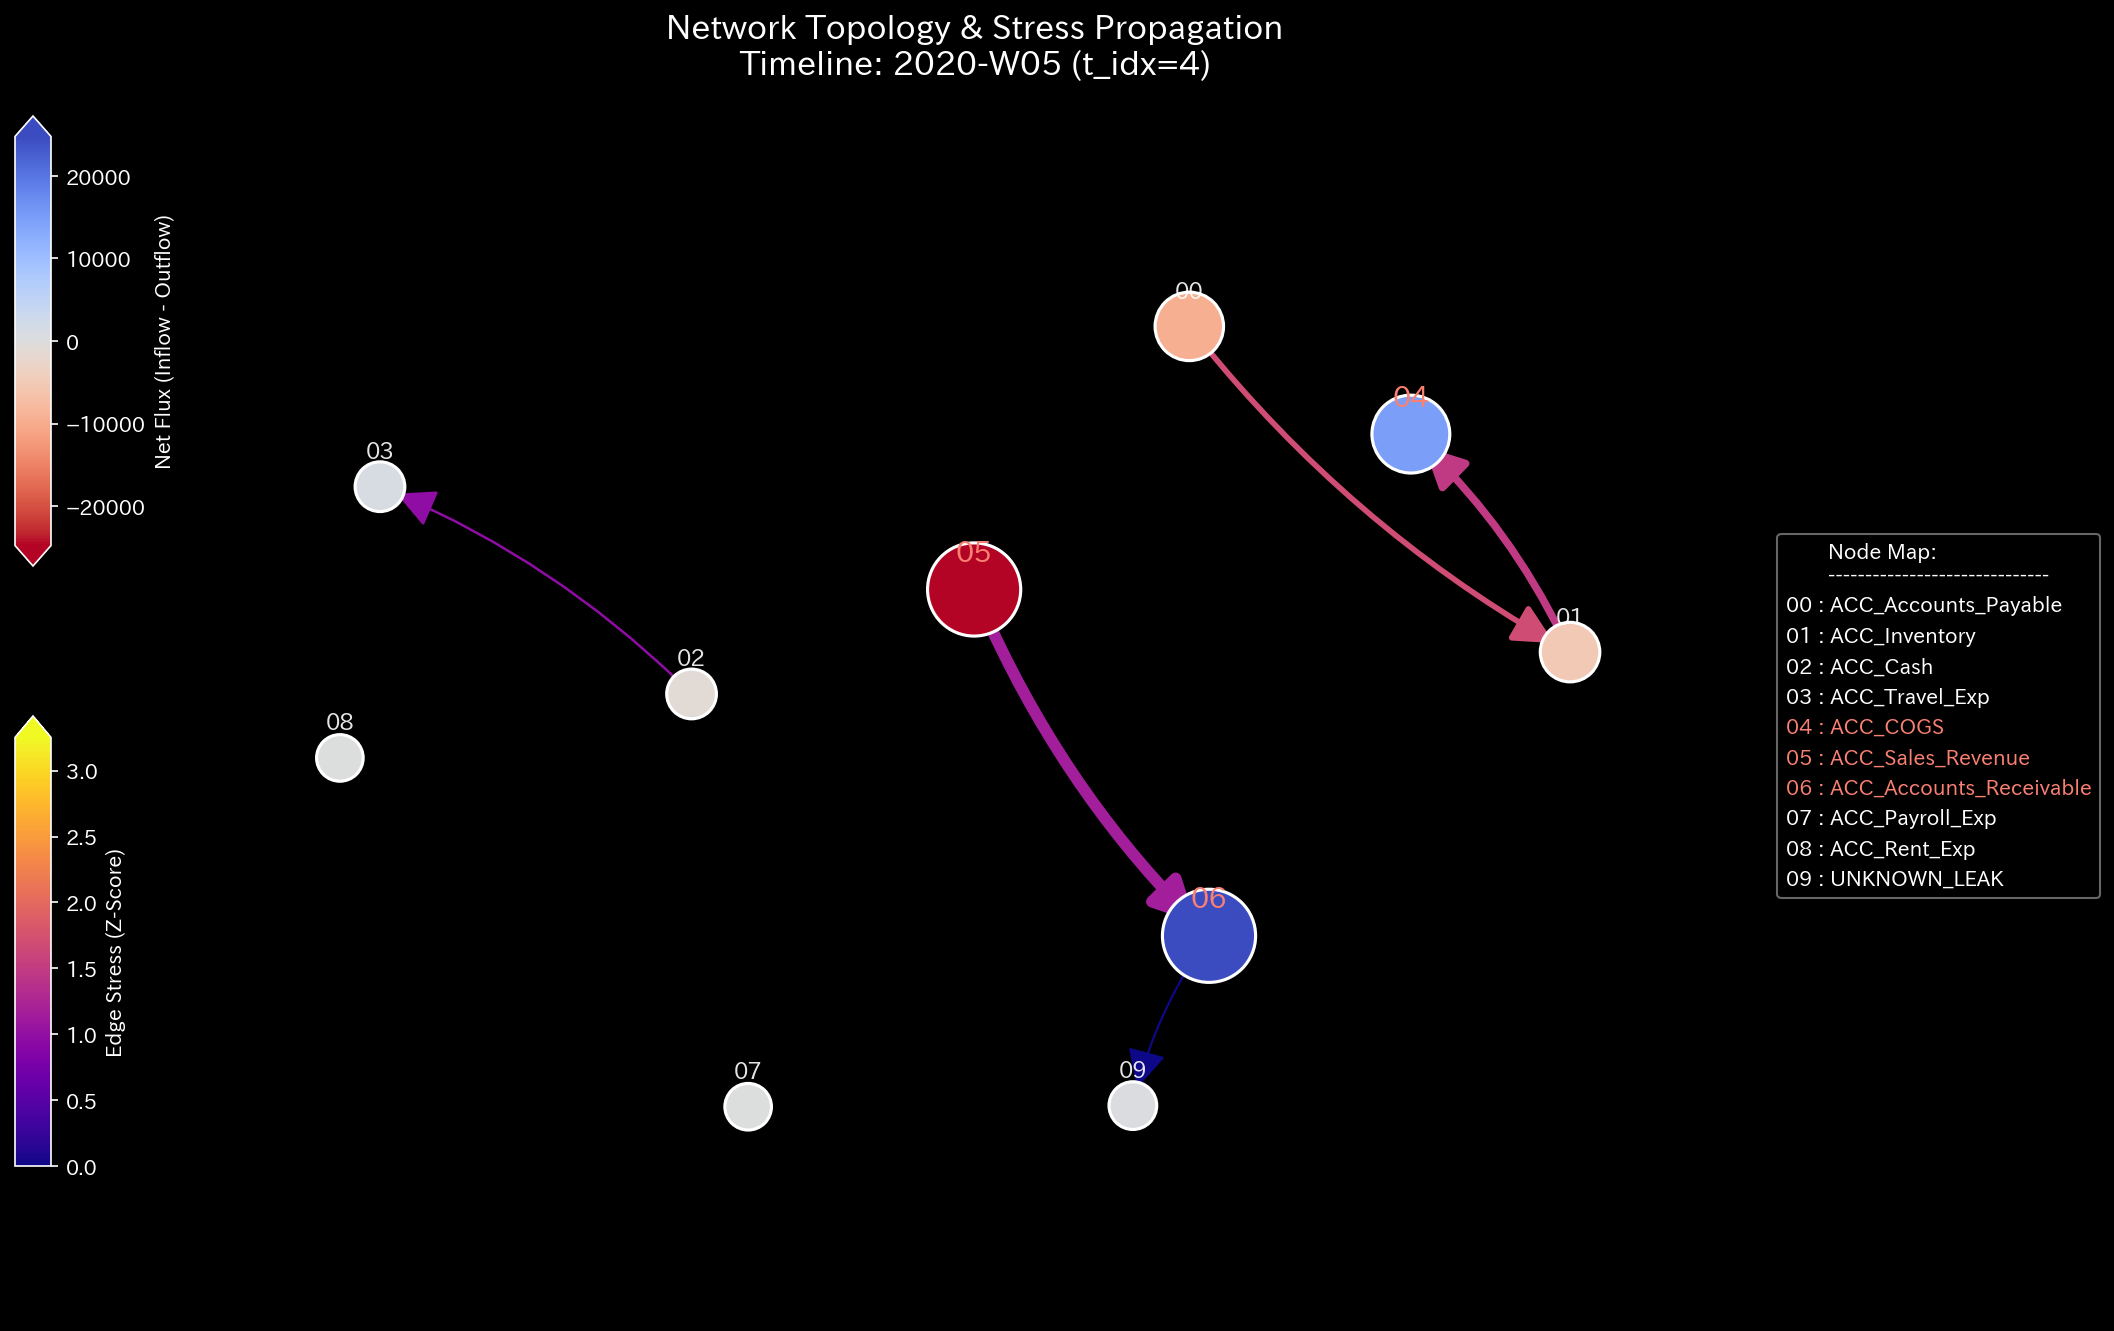
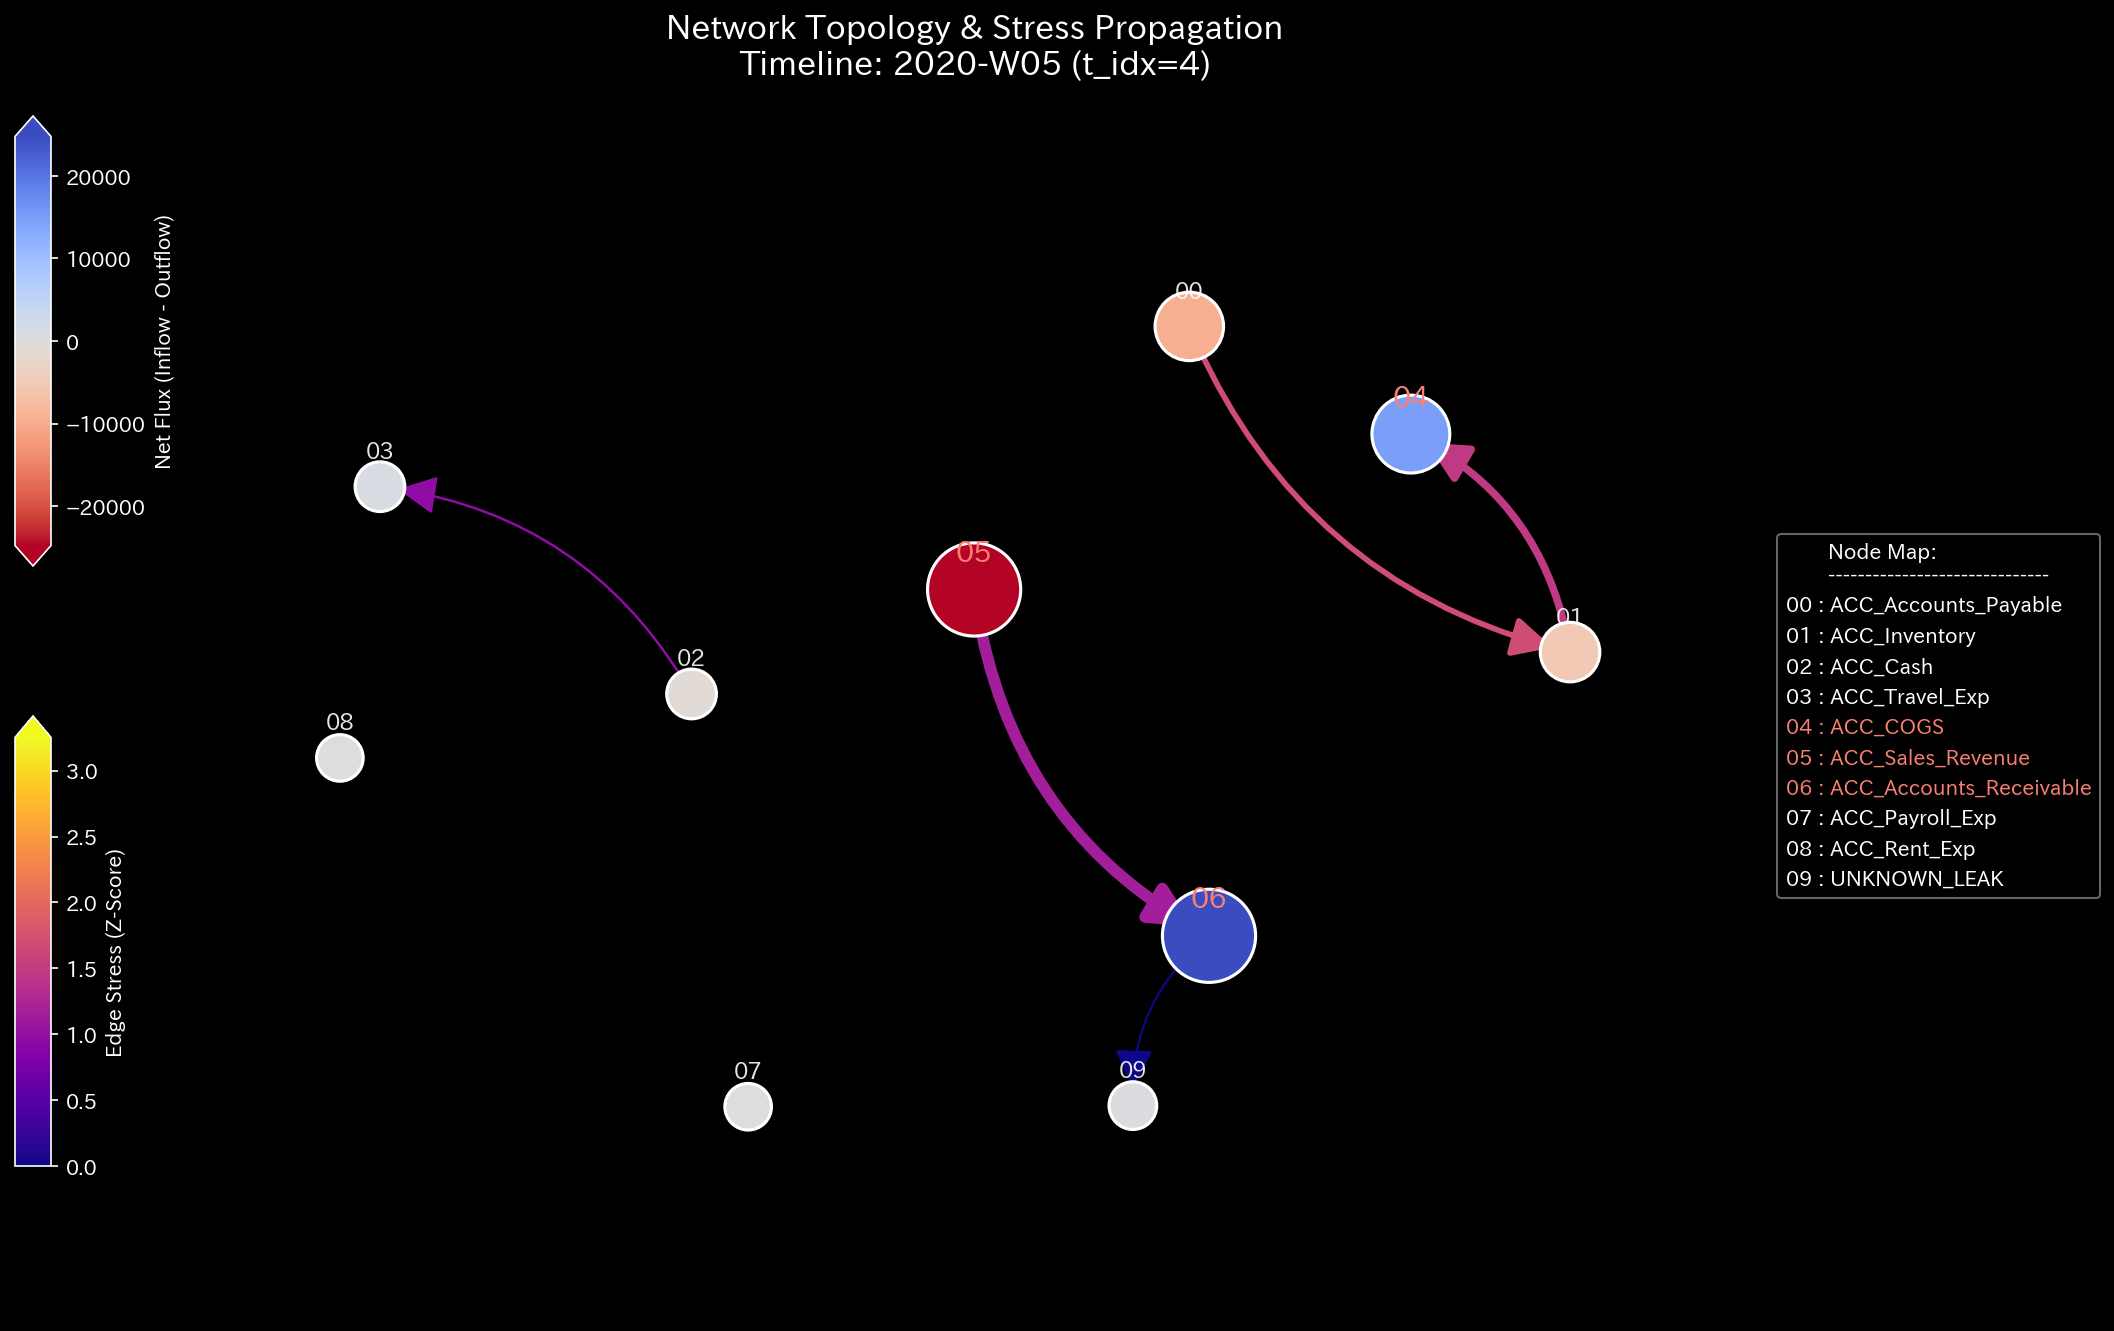
Update on README.md.

diff --git a/src/visualizations/_000_2_1_visualize_structural_stiffness.py b/src/visualizations/_000_2_1_visualize_structural_stiffness.py
@@ -103,12 +103,12 @@ def main():
         
         fig, ax = plt.subplots(figsize=(14, 12))
         
-        # Stop delegating to draw_matrix_heatmap and draw directly applying SymLogNorm
         sns.heatmap(
             pd.DataFrame(K_matrix_list[t_idx]), 
             ax=ax, 
             cmap=cmap_stiffness, 
-            norm=symlog_norm,  # Apply symmetric logarithmic scale
+            norm=symlog_norm,
+            center=0,  # 0.0が確実に白色(RdBu_rの中央)になるように明示
             xticklabels=axis_labels, 
             yticklabels=axis_labels,
             cbar_kws={'label': "Stiffness / Precision (SymLog10 Scale)", 'extend': 'both'}
